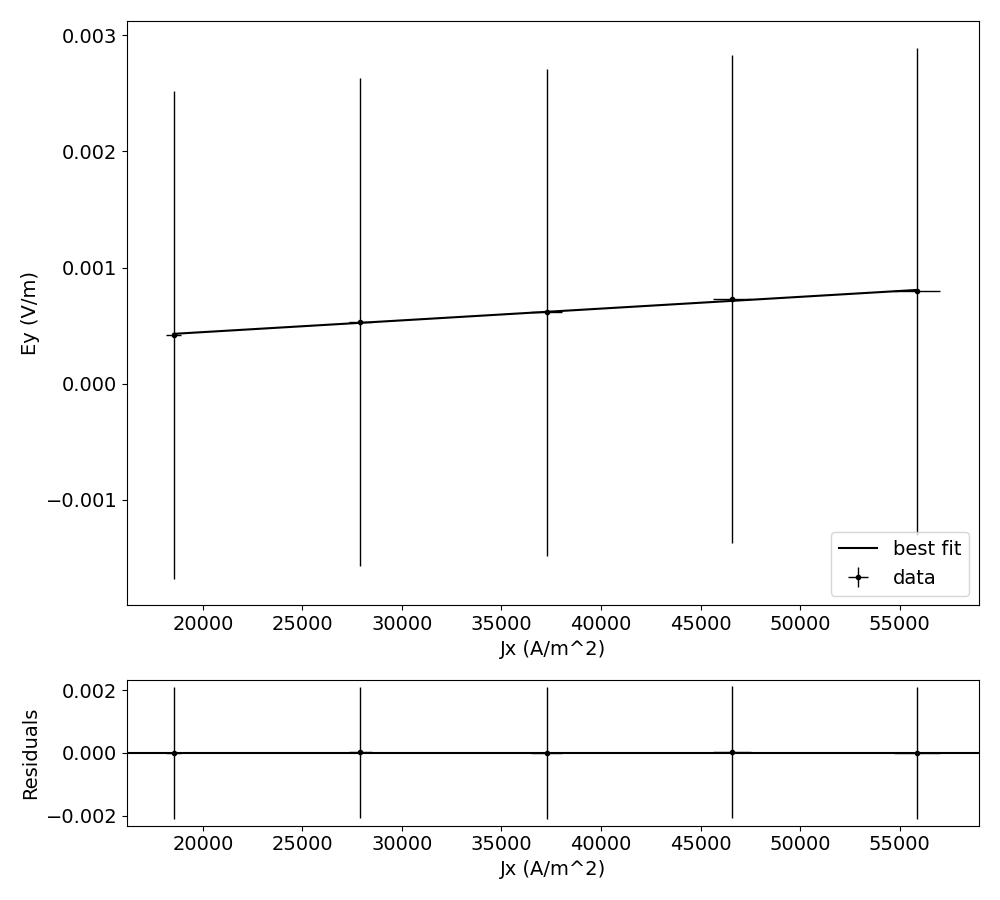
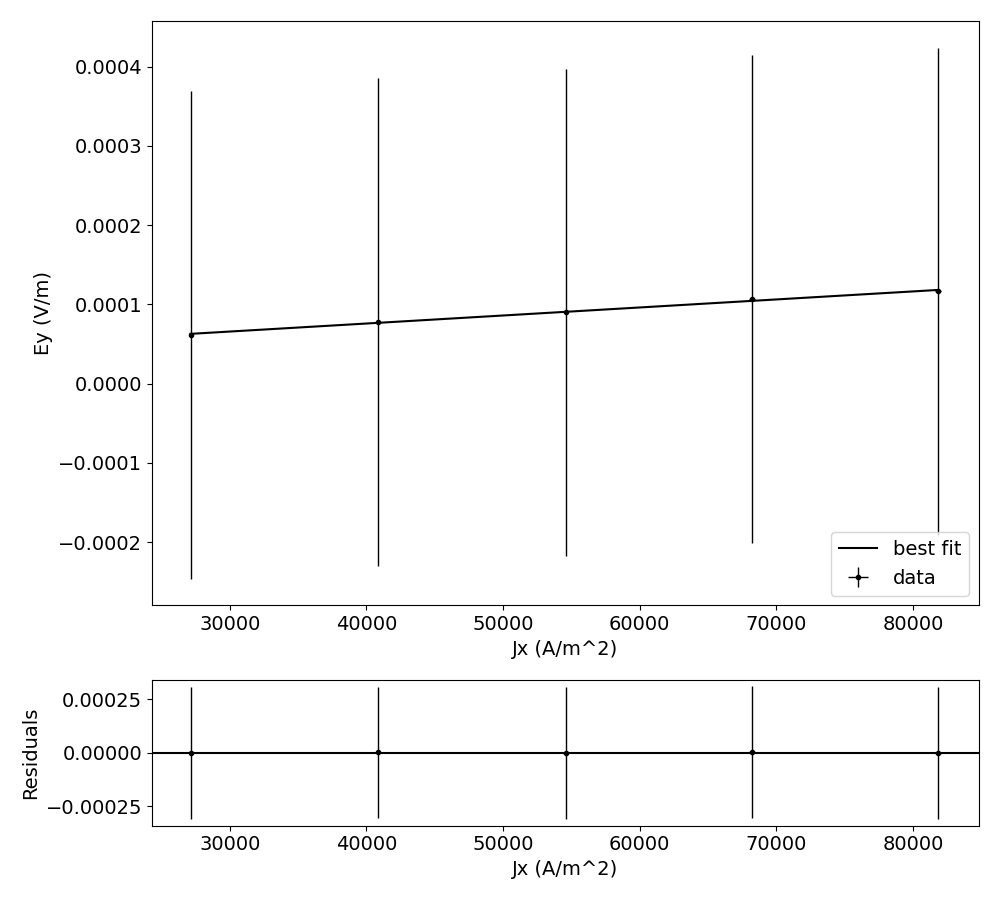
lab6

diff --git a/lab6-hall-effect/analysis.py b/lab6-hall-effect/analysis.py
@@ -9,12 +9,12 @@ def linear(x, m,b):
     return x * m + b
 
 # Dimensions 
-width = 2.38e-2     # meters
+width = 16.25e-2     # meters
 width_err = 0.05e-2 # meters
 
 # Calculate thickness 
-thickness = (2 / 26.15e-3) * 2945E-10   # meters
-thickness_err = tools.error_mult(2945E-10, 2 / 26.15e-3, 0, 0.05e-3, sol=thickness)
+thickness = (2 / 26.15e-2) * 2945E-10   # meters
+thickness_err = tools.error_mult(2945E-10, 2 / 26.15e-2, 0, 0.05e-2, sol=thickness)
 
 # Currents and voltages 
 currents = [9.93, 14.96, 19.98, 24.97, 29.95]  # in mA
